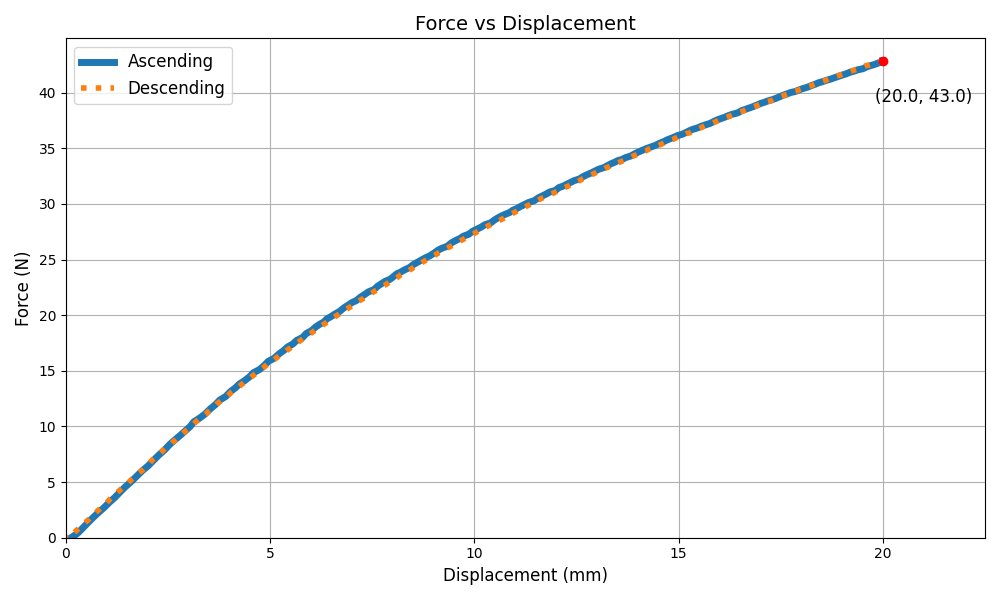
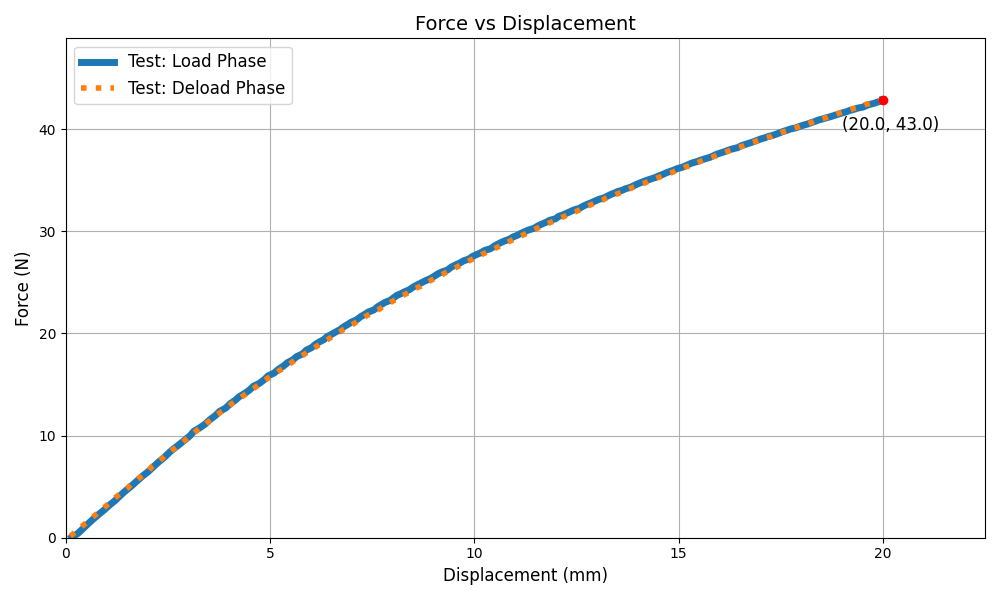
Done for Presentation

diff --git a/Test Results/Test_plot_20mm.py b/Test Results/Test_plot_20mm.py
@@ -17,8 +17,8 @@ displacement = data.iloc[:, 0].to_numpy()  # First column
 force = data.iloc[:, 1].to_numpy()         # Second column
 prbm_displacement = data_2.iloc[:, 0].to_numpy()
 prbm_force = data_2.iloc[:, 1].to_numpy()
-apdl_displacement = data_3.iloc[:, 1].to_numpy()
-apdl_force = data_3.iloc[:, 3].to_numpy()
+apdl_displacement = data_3.iloc[:, 2].to_numpy()
+apdl_force = data_3.iloc[:, 0].to_numpy()
 
 
 # Determine the peak force, displacement & index
@@ -27,12 +27,12 @@ peak_force = np.max(force)
 peak_displacement = np.max(displacement)
 
 # PRBM Values
-prbm_peak_force = np.max(prbm_force)
+prbm_peak_force = 2*np.max(prbm_force)
 prbm_peak_displacement = np.max(prbm_displacement)
 
 #APDL Values
-apdl_peak_force = np.max(apdl_force)
-apdl_peak_displacement = np.max(apdl_displacement)
+apdl_peak_force = apdl_force[-1]
+apdl_peak_displacement = apdl_displacement[-1]
 
 # Ensure matching lengths for descending slice
 descending_displacement = displacement[peak_index:]
@@ -51,10 +51,10 @@ plt.plot(displacement[:peak_index+1], force[:peak_index+1], label='Test: Load Ph
 plt.plot(descending_displacement, descending_force, linestyle='dotted', linewidth=4, label='Test: Deload Phase')
 
 # Plot data from the prbm file
-plt.plot(data_2['Deflection_X_mm'], data_2['Force_N'], label='PRBM Results', linewidth=4, linestyle = 'dashed')
+plt.plot(data_2['Deflection_X_mm'], 2*data_2['Force_N'], label='PRBM Results', linewidth=4, linestyle = 'dashed')
 
 # Plot data from the APDL file
-plt.plot(data_3['Displacement (mm)'], data_3['Reaction_Force_2_Flextures (N)'], label='APDL Results', linewidth=4)
+plt.plot(data_3['Displacement (mm)'], data_3['Reaction Force'], label='APDL Results', linewidth=4)
 
 # Customize plot
 plt.title('Force vs Displacement', fontsize=14)
@@ -71,15 +71,16 @@ plt.ylim(0, peak_force + 6)  # Extend y-axis slightly beyond the last point
 
 # Plot dot at maximum force value
 plt.scatter(peak_displacement, peak_force, color='red', zorder=5)
-plt.text(np.round(peak_displacement)-1, peak_force+1, f'({np.round(peak_displacement)}, {np.round(peak_force)})', fontsize=12)
+plt.text(np.round(peak_displacement)-1, peak_force-3, f'({np.round(peak_displacement)}, {np.round(peak_force)})', fontsize=12)
 
 # Plot dot at maximum force value: prbm
 plt.scatter(prbm_peak_displacement, prbm_peak_force, color='blue', zorder=5)
-plt.text(np.round(prbm_peak_displacement)-1, prbm_peak_force -2.5, f'({np.round(prbm_peak_displacement)}, {np.round(prbm_peak_force)})', fontsize=12)
+plt.text(np.round(prbm_peak_displacement)-1, prbm_peak_force -3.5, f'({np.round(prbm_peak_displacement)}, {np.round(prbm_peak_force)})', fontsize=12)
 
-# Plot dot at maximum force value: prbm
-plt.scatter(apdl_peak_displacement, apdl_peak_force, color='green', zorder=5)
-plt.text(np.round(apdl_peak_displacement)-1, apdl_peak_force +1, f'({np.round(apdl_peak_displacement)}, {np.round(apdl_peak_force)})', fontsize=12)
+# Plot dot at maximum force value: APDL
+plt.scatter(20.0, 25.1, color='blue', zorder=5)
+plt.text(19,22.1, f'({20}, {25.1})', fontsize=12)
+
 
 #Show Plot
 plt.show()
